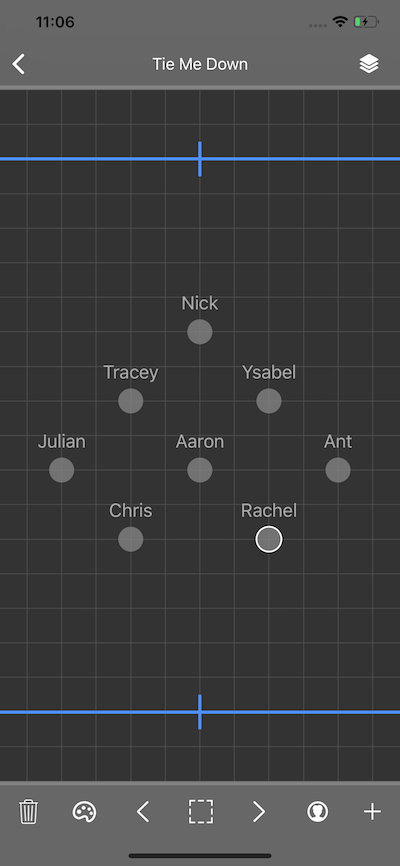
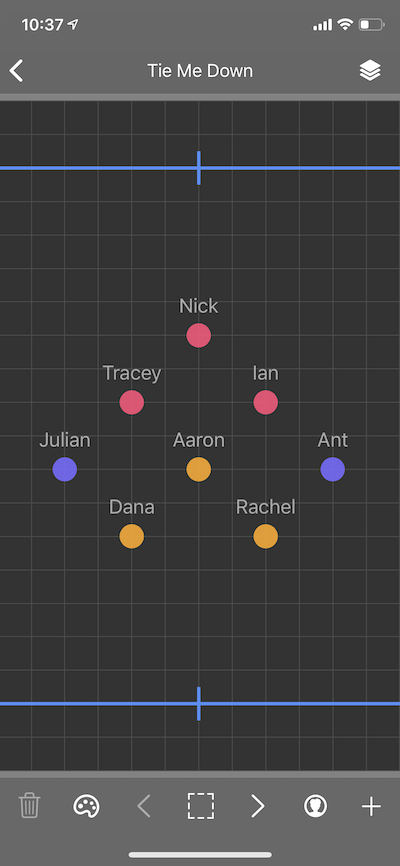
Update ChoreoRoom page

diff --git a/hacker/choreoroom.html b/hacker/choreoroom.html
@@ -30,7 +30,7 @@
 			In early 2017, as part of my final project for a Stanford iOS development course, I created <a href="https://apps.apple.com/us/app/choreoroom/id1332273123" target="_blank" rel="noreferrer" class="colored-link">ChoreoRoom</a>, an app that helps dance choreographers plan out the blocking (i.e., formations) for their pieces. I had come up with the idea along with a few other friends at <a href="https://www.treehacks.com/" target="_blank" rel="noreferrer" class="colored-link">TreeHacks</a> a year earlier<sup>*</sup>, but at the time we weren't able to accomplish much due to our limited web development experience. This time, however, I was confident I would be able to turn our concept into a workable, usable product.
 		</p>
 		<p>
-			Working on ChoreoRoom was hands-down my favorite coding project that I've ever worked on, which was mainly because of my personal interest as a dance choreographer. Even when I felt completely lost or discovered particularly nasty bugs, I was always able to regain my momentum by reminding myself of how much the app meant to me. Although I was able to use a lot of what I had learned in class, many of the app's features (such as the ability to share pieces via AirDrop and email) required researching new APIs, reading online tutorials, and browsing Stack Overflow. By the time I made my <a href="https://app.box.com/s/shdl0d1jg371ih310zazogi9wp4z5ub8" target="_blank" rel="noreferrer" class="colored-link">final presentation</a> at the end of the quarter, I had developed a solid prototype for ChoreoRoom that I felt comfortable sharing with fellow choreographers for informal alpha testing.
+			Working on ChoreoRoom was hands-down my favorite coding project that I ever worked on in college, which was mainly because of my personal interest as a dance choreographer. Even when I felt completely lost or discovered particularly nasty bugs, I was always able to regain my momentum by reminding myself of how much the app meant to me. Although I was able to use a lot of what I had learned in class, many of the app's features (such as the ability to share pieces via AirDrop and email) required researching new APIs, reading online tutorials, and browsing Stack Overflow. By the time I made my <a href="https://app.box.com/s/shdl0d1jg371ih310zazogi9wp4z5ub8" target="_blank" rel="noreferrer" class="colored-link">final presentation</a> at the end of the quarter, I had developed a solid prototype for ChoreoRoom that I felt comfortable sharing with fellow choreographers for informal alpha testing.
 		</p>
 		<div class="ama-center">
 			<img class="w3-round-large"
@@ -41,11 +41,11 @@
 			<p class="image-description">A sample formation created using ChoreoRoom</p>
 		</div>
 		<p>
-			A few months later, over winter break my senior year, I found the time to polish the app for public release, which involved improving usability, fixing bugs, and overhauling the UI. Since January 2018, ChoreoRoom has been available for download on the <a href="https://itunes.apple.com/us/app/choreoroom/id1332273123" target="_blank" rel="noreferrer" class="colored-link">App Store</a> and has been downloaded more than 10,000 times! Its most recent update contained a handful of new features and enhancements, including color coding, multi-select mode, an updated gallery view, and higher resolution graphics when zooming. Knowing that my app is used and appreciated by real users whom I've never even met is a pretty rewarding feeling and motivates me to continue developing ChoreoRoom in the future.
+			A few months later, over winter break my senior year, I found the time to polish the app for public release, which involved improving usability, fixing bugs, and overhauling the UI. Since January 2018, ChoreoRoom has been available for download on the <a href="https://itunes.apple.com/us/app/choreoroom/id1332273123" target="_blank" rel="noreferrer" class="colored-link">App Store</a> and has been downloaded more than 20,000 times! Its most recent update contained a handful of new features and enhancements, including color coding, multi-select mode, an updated gallery view, and higher resolution graphics when zooming. Knowing that my app is used and appreciated by real users whom I've never even met is a pretty rewarding feeling and motivates me to continue developing ChoreoRoom in the future.
 		</p>
 		<hr>
 		<p>
-			<sup>*</sup>After my friends and I created the idea of ChoreoRoom at TreeHacks, we learned of a similar app that already existed called <a href="https://itunes.apple.com/us/app/playbook-dance/id572038933" target="_blank" rel="noreferrer" class="colored-link">PlayBook</a>. While PlayBook already offered many of the features that we wanted out of ChoreoRoom, it had not been updated since 2013, meaning it still used pre-iOS 7 UI elements and was not optimized for newer devices. Thus, while I strived to make a better, more modern app by creating ChoreoRoom, I am grateful that PlayBook already existed because it served as a good baseline when developing my app.
+			<sup>*</sup>After my friends and I created the idea of ChoreoRoom at TreeHacks, we learned of a similar app that already existed called <a href="https://itunes.apple.com/us/app/playbook-dance/id572038933" target="_blank" rel="noreferrer" class="colored-link">PlayBook</a>. While PlayBook already offered many of the features that we wanted out of ChoreoRoom, it had not been updated since 2013, meaning it still used pre-iOS 7 UI elements and was not optimized for newer devices. Thus, while I strived to make a better, more modern app by creating ChoreoRoom, I am grateful that PlayBook already existed because it served as a good baseline during development.
 		</p>
 	</div>
 </div>
